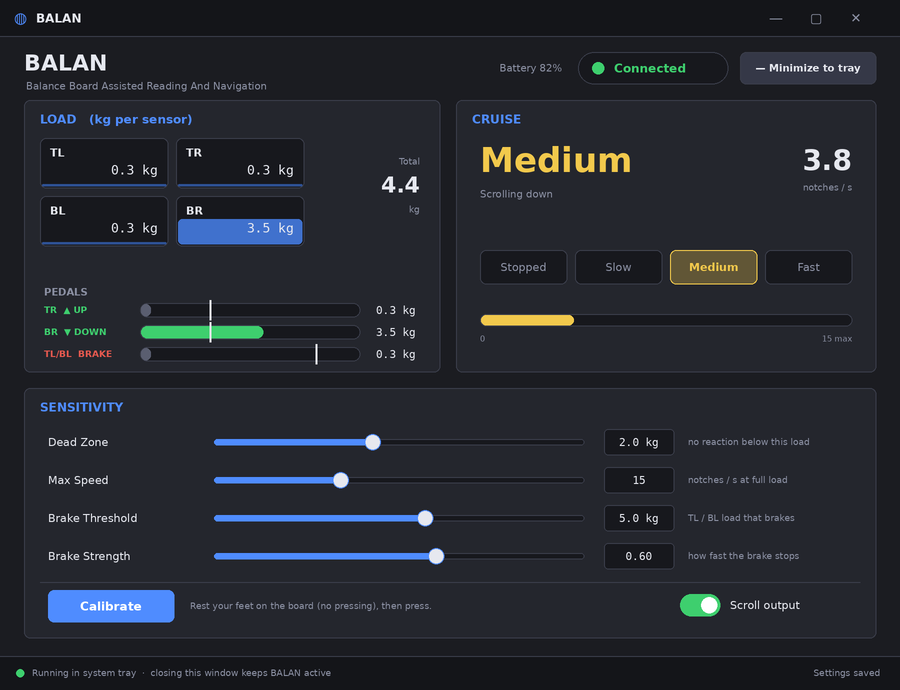
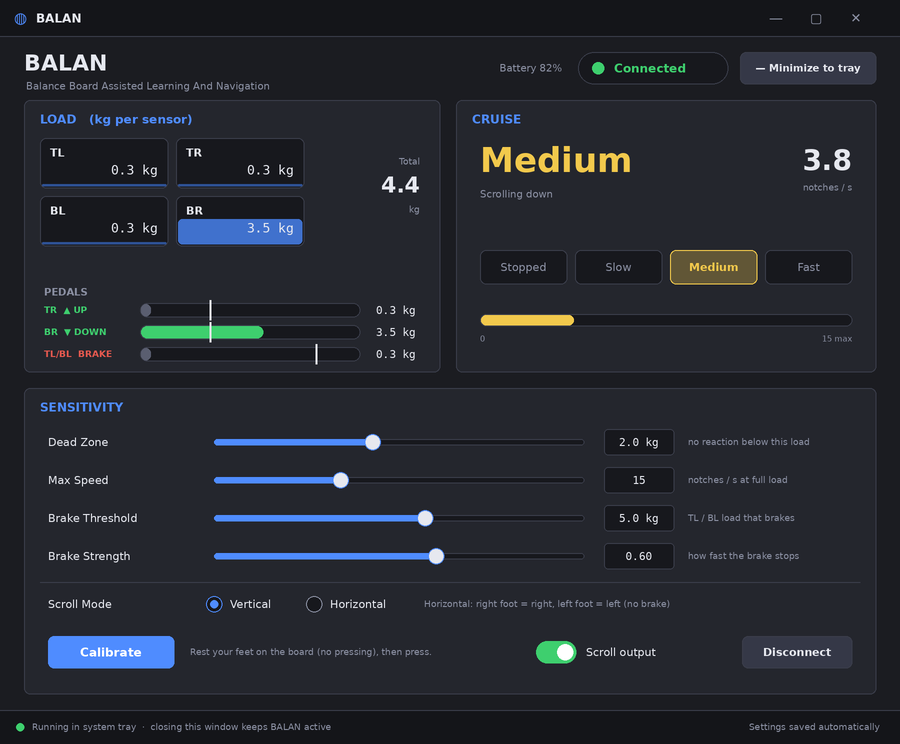
docs: refresh mocks and screenshots for current UI (Scroll Mode, Connect button)
Mock generator gains the Scroll Mode row, Disconnect/Connect button and a
Horizontal variant; README shows a screenshot per mode.

diff --git a/docs/gen_mock.py b/docs/gen_mock.py
@@ -1,7 +1,7 @@
 """BALAN デスクトップ画面モック (Phase 1)。Avalonia へ移しやすいよう、矩形・テキスト・スライダーのみで構成する。
 
-    python3 docs/gen_mock.py            # docs/mock_main.png (状態: Medium)
-    python3 docs/gen_mock.py --states   # docs/mock_states.png (Stopped / Slow / Medium / Fast / Disconnected)
+    python3 docs/gen_mock.py            # docs/mock_main.png (Vertical、状態: Medium) と docs/mock_horizontal.png (Horizontal)
+    python3 docs/gen_mock.py --states   # docs/mock_states.png (Vertical: Stopped / Slow / Medium / Fast / Brake、Horizontal: Left / Right、Disconnected)
 """
 import sys
 from pathlib import Path
@@ -14,7 +14,7 @@ FM = "/usr/share/fonts/truetype/dejavu/DejaVuSansMono.ttf"
 def font(p, s): return ImageFont.truetype(p, int(s * 2))
 
 S = 2  # supersampling
-W, H = 900, 690
+W, H = 900, 744
 
 # 配色 (Styles/BalanTheme.axaml と共通)
 BG, TITLE, PANEL, FIELD, BORDER = "#1b1c21", "#141519", "#24262d", "#17181d", "#3a3d4a"
@@ -31,7 +31,7 @@ def lerp_hex(a, b, t):
     return "#%02x%02x%02x" % tuple(int(a[i] + (b[i] - a[i]) * t) for i in range(3))
 
 
-def render(connected=True, weights=None, dead=2.0, full=5.0, brake_kg=5.0, maxspeed=15, brake=0.6, name="mock_main.png"):
+def render(connected=True, weights=None, dead=2.0, full=5.0, brake_kg=5.0, maxspeed=15, brake=0.6, horizontal=False, name="mock_main.png"):
     img = Image.new("RGB", (W * S, H * S), BG)
     d = ImageDraw.Draw(img)
 
@@ -94,8 +94,11 @@ def render(connected=True, weights=None, dead=2.0, full=5.0, brake_kg=5.0, maxsp
     t(px1-20, py0+104, "kg", font(F, 9), DIM, "ra")
 
     # ---- ペダル: 何 kg で効くか ----
-    up, down, brk = weights["TR"], weights["BR"], max(weights["TL"], weights["BL"])
-    t(44, py1-86, "PEDALS", font(FB, 10), DIM)
+    if horizontal:  # 右足 = 右(正)、左足 = 左(負)、ブレーキなし
+        up, down, brk = max(weights["TR"], weights["BR"]), max(weights["TL"], weights["BL"]), 0.0
+    else:
+        up, down, brk = weights["TR"], weights["BR"], max(weights["TL"], weights["BL"])
+    t(44, py1-86 if not horizontal else py1-66, "PEDALS", font(FB, 10), DIM)
     meter_max = max(full, brake_kg) * 1.25
     def meter(y, label, val, thr, col, color_label):
         t(44, y, label, font(FB, 9), color_label, "lm")
@@ -107,15 +110,19 @@ def render(connected=True, weights=None, dead=2.0, full=5.0, brake_kg=5.0, maxsp
         x = mx0 + (mx1-mx0)*thr/meter_max
         d.line([x*S, (y-10)*S, x*S, (y+10)*S], fill=TXT, width=2*S)
         t(416, y, f"{val:.1f} kg" if connected else "-- kg", font(FM, 11), TXT, "rm")
-    meter(py1-62, "TR  ▲ UP", up, dead, GO, GO)
-    meter(py1-40, "BR  ▼ DOWN", down, dead, GO, GO)
-    meter(py1-18, "TL/BL  BRAKE", brk, brake_kg, BRAKE, BRAKE)
+    if horizontal:
+        meter(py1-42, "TR/BR  ▶ RIGHT", up, dead, GO, GO)
+        meter(py1-20, "TL/BL  ◀ LEFT", down, dead, GO, GO)
+    else:
+        meter(py1-62, "TR  ▲ UP", up, dead, GO, GO)
+        meter(py1-40, "BR  ▼ DOWN", down, dead, GO, GO)
+        meter(py1-18, "TL/BL  BRAKE", brk, brake_kg, BRAKE, BRAKE)
 
     # ---- Cruise (巡航速度) ----
     cx0, cy0, cx1, cy1 = 456, 100, 876, 372
     panel(cx0, cy0, cx1, cy1, "CRUISE")
     force = max(up, down)
-    braking = connected and brk >= brake_kg
+    braking = connected and not horizontal and brk >= brake_kg
     if not connected or braking or force <= dead:
         level, speed = "Stopped", 0.0
     else:
@@ -125,7 +132,7 @@ def render(connected=True, weights=None, dead=2.0, full=5.0, brake_kg=5.0, maxsp
         level = "Slow" if eff < dead+1 else "Medium" if eff < dead+2 else "Fast"
     col = LEVEL_COLOR[level]
     t(cx0+24, cy0+40, level, font(FB, 34), col)
-    direction = "up" if up > down else "down"
+    direction = ("right" if up > down else "left") if horizontal else ("up" if up > down else "down")
     t(cx0+24, cy0+88, f"Scrolling {direction}" if speed > 0 else ("Braking" if braking else "Idle  -  nothing happens"), font(F, 10), DIM)
     t(cx1-24, cy0+44, f"{speed:4.1f}", font(FB, 28), TXT, "ra")
     t(cx1-24, cy0+82, "notches / s", font(F, 9), DIM, "ra")
@@ -148,31 +155,44 @@ def render(connected=True, weights=None, dead=2.0, full=5.0, brake_kg=5.0, maxsp
     t(sx1, by2+20, f"{maxspeed} max", font(F, 8), DIM, "ra")
 
     # ---- Settings ----
-    sx0_, sy0_, sx1_, sy1_ = 24, 388, 876, 638
+    sx0_, sy0_, sx1_, sy1_ = 24, 388, 876, 694
     panel(sx0_, sy0_, sx1_, sy1_, "SENSITIVITY")
-    def slider(y, name, val, vmin, vmax, text, hint):
-        t(sx0_+24, y, name, font(F, 11), TXT, "lm")
+    def slider(y, name, val, vmin, vmax, text, hint, enabled=True):
+        tc, ac, dc = (TXT, ACC, DIM) if enabled else ("#5a5e70", "#3a3d4a", "#5a5e70")
+        t(sx0_+24, y, name, font(F, 11), tc, "lm")
         tx0, tx1 = sx0_+190, sx0_+560
         rr(tx0, y-3, tx1, y+3, FIELD, BORDER, 3)
         f = (val-vmin)/(vmax-vmin)
-        rr(tx0, y-3, tx0+(tx1-tx0)*f, y+3, ACC, None, 3)
-        dot(tx0+(tx1-tx0)*f, y, 8, TXT, ACC)
+        rr(tx0, y-3, tx0+(tx1-tx0)*f, y+3, ac, None, 3)
+        dot(tx0+(tx1-tx0)*f, y, 8, tc if enabled else "#4a4d5a", ac)
         rr(tx1+20, y-13, tx1+90, y+13, FIELD, BORDER, 4)
-        t(tx1+55, y, text, font(FM, 11), TXT, "mm")
-        t(tx1+104, y, hint, font(F, 9), DIM, "lm")
+        t(tx1+55, y, text, font(FM, 11), tc, "mm")
+        t(tx1+104, y, hint, font(F, 9), dc, "lm")
     slider(sy0_+54, "Dead Zone", dead, 0.5, 4.0, f"{dead:.1f} kg", "no reaction below this load")
     slider(sy0_+92, "Max Speed", maxspeed, 2, 40, f"{maxspeed}", "notches / s at full load")
-    slider(sy0_+130, "Brake Threshold", brake_kg, 1.0, 8.0, f"{brake_kg:.1f} kg", "TL / BL load that brakes")
-    slider(sy0_+168, "Brake Strength", brake, 0.0, 1.0, f"{brake:.2f}", "how fast the brake stops")
+    slider(sy0_+130, "Brake Threshold", brake_kg, 1.0, 8.0, f"{brake_kg:.1f} kg", "TL / BL load that brakes", not horizontal)
+    slider(sy0_+168, "Brake Strength", brake, 0.0, 1.0, f"{brake:.2f}", "how fast the brake stops", not horizontal)
     d.line([(sx0_+16)*S, (sy0_+194)*S, (sx1_-16)*S, (sy0_+194)*S], fill=BORDER, width=S)
-    # Calibrate
-    rr(sx0_+24, sy0_+202, sx0_+150, sy0_+234, ACC, None, 6)
-    t(sx0_+87, sy0_+218, "Calibrate", font(FB, 12), "white", "mm")
-    t(sx0_+166, sy0_+218, "Rest your feet on the board (no pressing), then press.", font(F, 9), DIM, "lm")
-    # Scroll output スイッチ
-    rr(sx1_-196, sy0_+206, sx1_-156, sy0_+228, GREEN if connected else BORDER, None, 11)
-    dot(sx1_-167 if connected else sx1_-185, sy0_+217, 8, "white")
-    t(sx1_-146, sy0_+217, "Scroll output", font(F, 11), TXT, "lm")
+    # Scroll Mode(ラジオボタン)
+    my = sy0_+216
+    t(sx0_+24, my, "Scroll Mode", font(F, 11), TXT, "lm")
+    for i, (label, on) in enumerate([("Vertical", not horizontal), ("Horizontal", horizontal)]):
+        rx = sx0_+190 + i*100
+        dot(rx, my, 8, FIELD, ACC if on else DIM)
+        if on:
+            dot(rx, my, 4, ACC)
+        t(rx+16, my, label, font(F, 11), TXT, "lm")
+    t(sx0_+400, my, "Horizontal: right foot = right, left foot = left (no brake)", font(F, 9), DIM, "lm")
+    # Calibrate / Scroll output / Connect
+    cy = sy0_+264
+    rr(sx0_+24, cy-16, sx0_+150, cy+16, ACC, None, 6)
+    t(sx0_+87, cy, "Calibrate", font(FB, 12), "white", "mm")
+    t(sx0_+166, cy, "Rest your feet on the board (no pressing), then press.", font(F, 9), DIM, "lm")
+    rr(sx1_-340, cy-11, sx1_-300, cy+11, GREEN if connected else BORDER, None, 11)
+    dot(sx1_-311 if connected else sx1_-329, cy, 8, "white")
+    t(sx1_-290, cy, "Scroll output", font(F, 11), TXT, "lm")
+    rr(sx1_-134, cy-16, sx1_-24, cy+16, "#353847", BORDER, 6)
+    t(sx1_-79, cy, "Disconnect" if connected else "Connect", font(FB, 11), TXT, "mm")
 
     # ---- フッター ----
     rect(0, H-34, W, H, TITLE)
@@ -180,7 +200,7 @@ def render(connected=True, weights=None, dead=2.0, full=5.0, brake_kg=5.0, maxsp
     dot(20, H-17, 4, GREEN if connected else RED)
     t(32, H-17, "Running in system tray  ·  closing this window keeps BALAN active" if connected
       else "Step on the board and press the red SYNC button  ·  waiting for Balance Board", font(F, 9), DIM, "lm")
-    t(W-20, H-17, "Settings saved", font(F, 9), DIM, "rm")
+    t(W-20, H-17, "Settings saved automatically", font(F, 9), DIM, "rm")
     # 最後に 900x650 へ縮小
     img = img.resize((W, H), Image.LANCZOS)
     img.save(OUT / name)
@@ -188,6 +208,7 @@ def render(connected=True, weights=None, dead=2.0, full=5.0, brake_kg=5.0, maxsp
 
 
 MAIN = dict(weights={"TL": 0.3, "TR": 0.3, "BL": 0.3, "BR": 3.5})
+HORIZONTAL = dict(weights={"TL": 0.3, "TR": 3.5, "BL": 0.3, "BR": 0.3}, horizontal=True)
 
 if __name__ == "__main__":
     if "--states" in sys.argv:
@@ -197,14 +218,17 @@ if __name__ == "__main__":
             ("Medium", MAIN),
             ("Fast", dict(weights={"TL": 0.3, "TR": 0.3, "BL": 0.3, "BR": 4.8})),
             ("Brake", dict(weights={"TL": 0.3, "TR": 0.3, "BL": 5.6, "BR": 4.5})),
+            ("Horizontal: right", HORIZONTAL),
+            ("Horizontal: left", dict(weights={"TL": 0.3, "TR": 0.3, "BL": 4.8, "BR": 0.3}, horizontal=True)),
             ("Disconnected", dict(connected=False)),
         ]
-        sheet = Image.new("RGB", (W*2 + 30, H*3 + 40), "#0c0c0f")
+        sheet = Image.new("RGB", (W*2 + 30, H*4 + 50), "#0c0c0f")
         for i, (n, kw) in enumerate(cases):
-            im = render(name=f"_tmp_{n}.png", **kw)
+            im = render(name=f"_tmp_{i}.png", **kw)
             sheet.paste(im, (10 + (i % 2)*(W+10), 10 + (i // 2)*(H+10)))
-            (OUT / f"_tmp_{n}.png").unlink()
+            (OUT / f"_tmp_{i}.png").unlink()
         sheet.save(OUT / "mock_states.png")
     else:
         render(**MAIN)
+        render(name="mock_horizontal.png", **HORIZONTAL)
     print("ok")
